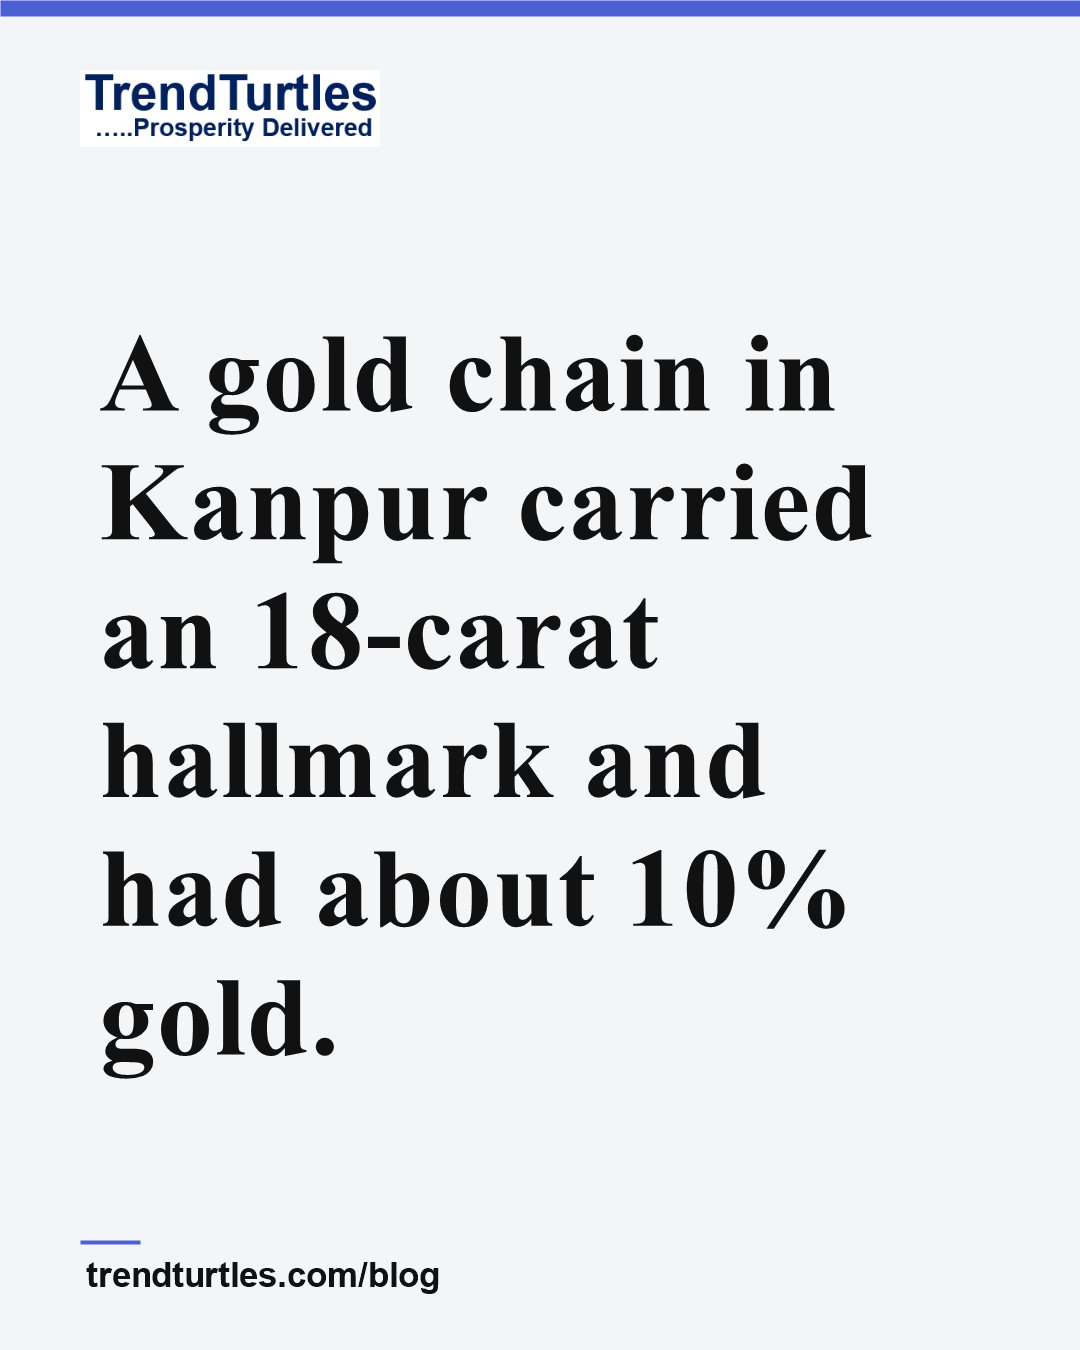
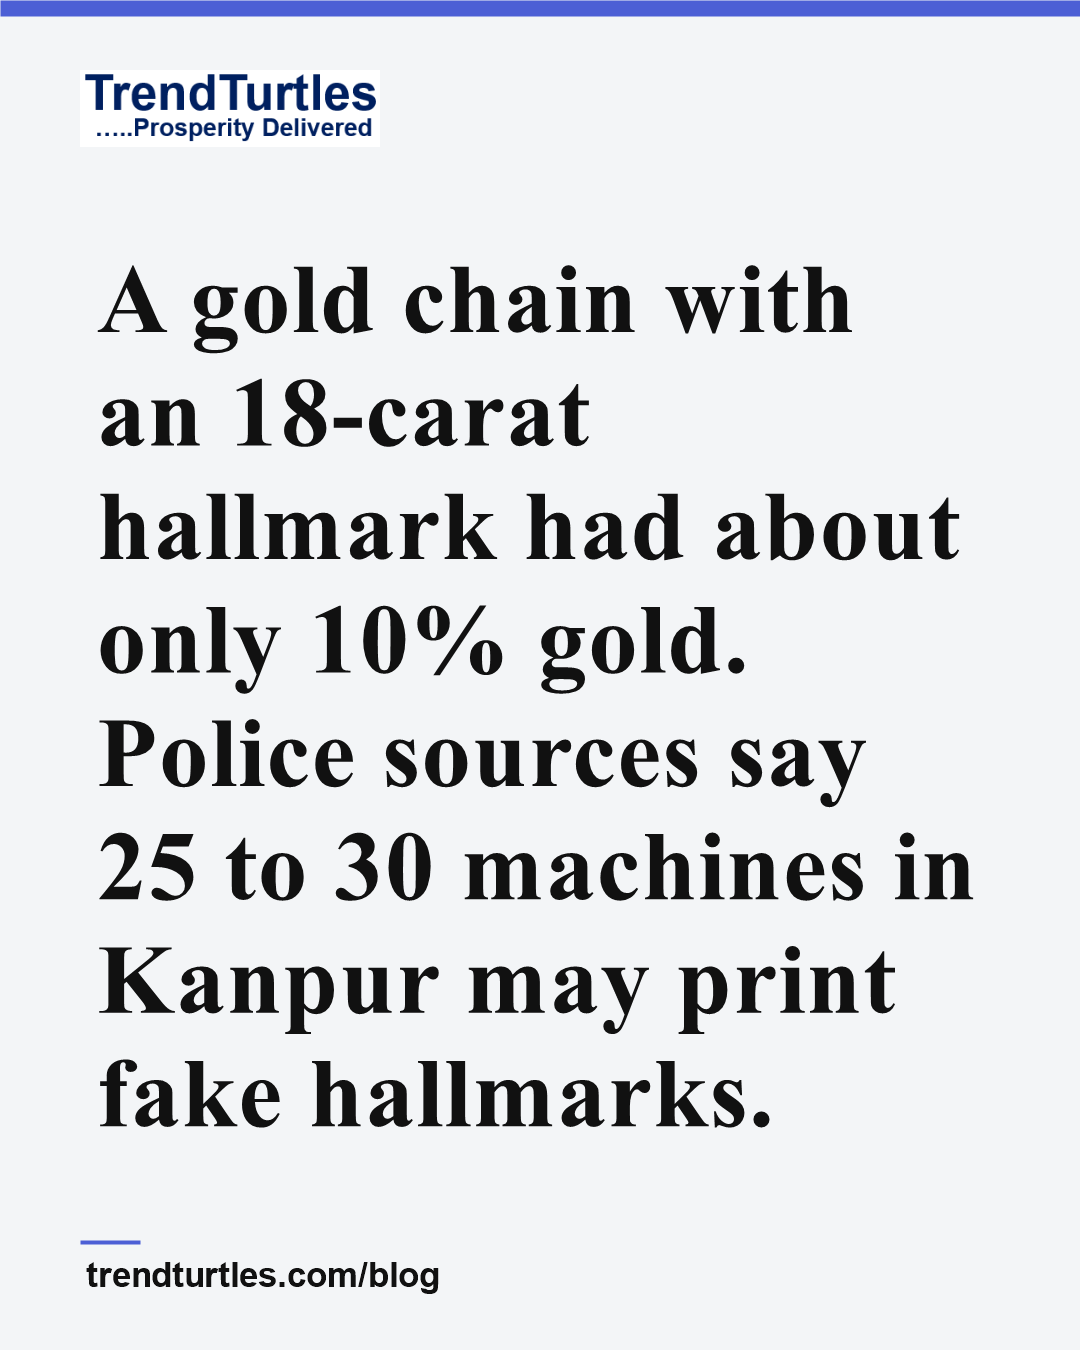
Hallmark post: author's headline (about only 10% gold; police sources, 25 to 30 machines); constitution: never change an approved headline yourself

Changed region(s): [[0.0917, 0.1867, 0.8861, 0.84], [0.825, 0.6222, 0.9167, 0.6844]]

diff --git a/blog/gold-hallmark-check-india.html b/blog/gold-hallmark-check-india.html
@@ -29,7 +29,7 @@
     {
         "@context": "https://schema.org",
         "@type": "BlogPosting",
-        "headline": "A gold chain in Kanpur carried an 18-carat hallmark and had about 10% gold.",
+        "headline": "Fake Gold Hallmark in India: 18K Mark, Only 10% Gold",
         "description": "A gold chain in Kanpur carried an 18-carat hallmark and had about 10% gold. Real fake hallmark cases, and the free BIS Care check that catches most of them.",
         "mainEntityOfPage": "https://trendturtles.com/blog/gold-hallmark-check-india.html",
         "datePublished": "2026-10-08",
@@ -90,7 +90,7 @@
         <a href="index.html">Blog</a> &rsaquo;
         <span class="current">Fake Gold Hallmark</span>
     </p>
-    <h1>A gold chain in Kanpur carried an 18-carat hallmark and had about 10% gold.</h1>
+    <h1>A gold chain with an 18-carat hallmark had about only 10% gold. Police sources say 25 to 30 machines in Kanpur may print fake hallmarks.</h1>
     <p class="dek">An 18-carat piece should be 75% gold. A fake hallmark looks like a real one, but you can check its code free in the BIS Care app. A ₹200 test at a BIS-recognised centre shows the real purity.</p>
     <p class="dek-source">Kanpur police case, reported 11 and 13 October 2026. Source: <a href="https://the420.in/kanpur-fake-gold-hallmarking-bis-laser-machine-racket/" target="_blank" rel="noopener noreferrer">The420</a>, a fraud and cybercrime news site, and <a href="https://www.amarujala.com/uttar-pradesh/kanpur/gang-selling-jewelry-falsely-hallmarked-as-18-carat-busted-four-arrested-including-a-woman-2026-10-10" target="_blank" rel="noopener noreferrer">Amar Ujala</a>, a Hindi daily.</p>
 </section>

diff --git a/blog/gold-at-home-limit-india.html b/blog/gold-at-home-limit-india.html
@@ -197,7 +197,7 @@
     <div class="related-reading">
         <h2>Related Reading</h2>
         <ul>
-            <li><a href="gold-hallmark-check-india.html">A Gold Chain in Kanpur Carried an 18-Carat Hallmark and Had About 10% Gold</a></li>
+            <li><a href="gold-hallmark-check-india.html">Fake Gold Hallmark: An 18-Carat Chain Had About Only 10% Gold</a></li>
             <li><a href="sovereign-gold-bond-tax-india.html">Sovereign Gold Bonds: "Secondary-Market Buyers Now Face 12.5% LTCG at Maturity"</a></li>
             <li><a href="digital-gold-safe-india.html">"There Is No Gold and No Money": Is Digital Gold Safe in India?</a></li>
             <li><a href="gold-making-charges-india-real-cost.html">Gold Making Charges in India: What They Really Cost You</a></li>

diff --git a/blog/digital-gold-safe-india.html b/blog/digital-gold-safe-india.html
@@ -204,7 +204,7 @@
         <ul>
             <li><a href="gold-at-home-limit-india.html">Gold at Home Limit: The 500g Rule and Inherited Gold Tax</a></li>
             <li><a href="sovereign-gold-bond-tax-india.html">Sovereign Gold Bonds: "Secondary-Market Buyers Now Face 12.5% LTCG at Maturity"</a></li>
-            <li><a href="gold-hallmark-check-india.html">A Gold Chain in Kanpur Carried an 18-Carat Hallmark and Had About 10% Gold</a></li>
+            <li><a href="gold-hallmark-check-india.html">Fake Gold Hallmark: An 18-Carat Chain Had About Only 10% Gold</a></li>
             <li><a href="gold-making-charges-india-real-cost.html">Gold Making Charges in India: What They Really Cost You</a></li>
         </ul>
     </div>

diff --git a/blog/sovereign-gold-bond-tax-india.html b/blog/sovereign-gold-bond-tax-india.html
@@ -202,7 +202,7 @@
         <h2>Related Reading</h2>
         <ul>
             <li><a href="gold-at-home-limit-india.html">Gold at Home Limit: The 500g Rule and Inherited Gold Tax</a></li>
-            <li><a href="gold-hallmark-check-india.html">A Gold Chain in Kanpur Carried an 18-Carat Hallmark and Had About 10% Gold</a></li>
+            <li><a href="gold-hallmark-check-india.html">Fake Gold Hallmark: An 18-Carat Chain Had About Only 10% Gold</a></li>
             <li><a href="digital-gold-safe-india.html">"There Is No Gold and No Money": Is Digital Gold Safe in India?</a></li>
             <li><a href="gold-making-charges-india-real-cost.html">Gold Making Charges in India: What They Really Cost You</a></li>
         </ul>

diff --git a/blog/gold-making-charges-india-real-cost.html b/blog/gold-making-charges-india-real-cost.html
@@ -249,7 +249,7 @@
         <ul>
             <li><a href="gold-at-home-limit-india.html">Gold at Home Limit: The 500g Rule and Inherited Gold Tax</a></li>
             <li><a href="sovereign-gold-bond-tax-india.html">Sovereign Gold Bonds: "Secondary-Market Buyers Now Face 12.5% LTCG at Maturity"</a></li>
-            <li><a href="gold-hallmark-check-india.html">A Gold Chain in Kanpur Carried an 18-Carat Hallmark and Had About 10% Gold</a></li>
+            <li><a href="gold-hallmark-check-india.html">Fake Gold Hallmark: An 18-Carat Chain Had About Only 10% Gold</a></li>
             <li><a href="digital-gold-safe-india.html">"There Is No Gold and No Money": Is Digital Gold Safe in India?</a></li>
         </ul>
     </div>

diff --git a/blog/index.html b/blog/index.html
@@ -83,7 +83,7 @@
 
         <a class="blog-card" href="gold-hallmark-check-india.html">
             <div class="blog-content">
-                <h3>A gold chain in Kanpur carried an 18-carat hallmark and had about 10% gold.</h3>
+                <h3>A gold chain with an 18-carat hallmark had about only 10% gold. Police sources say 25 to 30 machines in Kanpur may print fake hallmarks.</h3>
                 <p>An 18-carat piece should be 75% gold. A fake hallmark looks like a real one, but you can check its code free in the BIS Care app. A ₹200 test at a BIS-recognised centre shows the real purity.</p>
             </div>
         </a>
